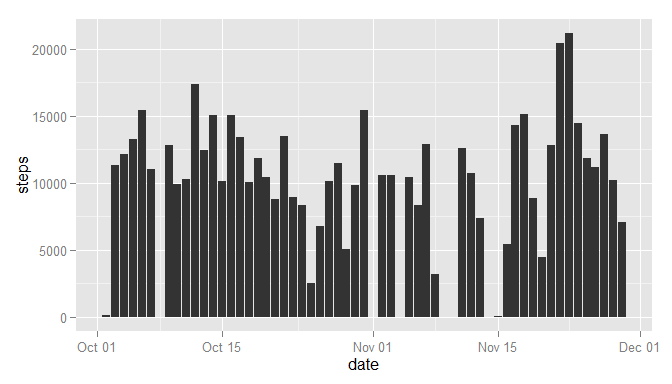
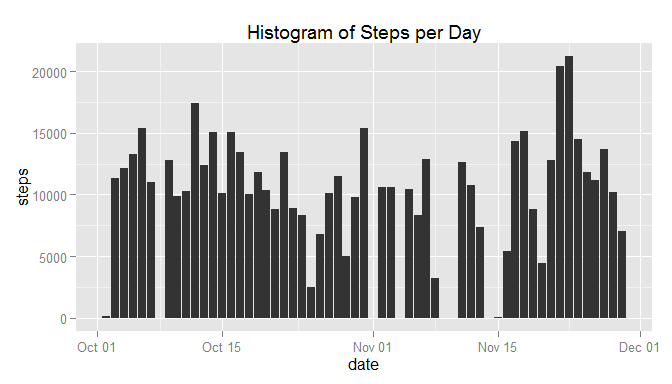
part2
complete

diff --git a/PA1_template.html b/PA1_template.html
@@ -69,9 +69,9 @@ data &lt;- transform(data, date = as.POSIXct(date))</code></pre>
 sumpd &lt;- data.frame(date=names(sumpd),steps = sumpd,row.names=NULL)
 sumpd  &lt;- transform(sumpd , date = as.POSIXct(date))
 par(mar = c(5, 4, 1, 1),las =1)
-qplot(date,steps,data = sumpd,geom = &quot;histogram&quot;,stat=&quot;identity&quot;)</code></pre>
+qplot(date,steps,data = sumpd,geom = &quot;histogram&quot;,stat=&quot;identity&quot;,main = &quot;Histogram of Steps per Day&quot;)</code></pre>
 <pre><code>## Warning: Removed 8 rows containing missing values (position_stack).</code></pre>
[2 lines of base64/hex data omitted]
 <pre class="r"><code>mean(sumpd$steps,na.rm= TRUE)</code></pre>
 <pre><code>## [1] 10766.19</code></pre>
 <pre class="r"><code>median(sumpd$steps, na.rm = TRUE)</code></pre>
@@ -79,6 +79,17 @@ qplot(date,steps,data = sumpd,geom = &quot;histogram&quot;,stat=&quot;identity&q
 </div>
 <div id="what-is-the-average-daily-activity-pattern" class="section level2">
 <h2>What is the average daily activity pattern?</h2>
+<pre class="r"><code>avgin&lt;-tapply(data$steps, data$interval, mean,na.rm = TRUE)
+avgin &lt;- data.frame(interval=names(avgin),steps = avgin,row.names=NULL)
+par(mar = c(5, 4, 1, 1),las =1)
+qplot(interval,steps,data=data,geom = &quot;line&quot;,stat=&quot;summary&quot;,fun.y = &quot;mean&quot;,main =&quot; time series of average number of steps taken, averaged across all days&quot;)</code></pre>
+<pre><code>## Warning: Removed 2304 rows containing missing values (stat_summary).</code></pre>
[1 lines of base64/hex data omitted]
+<p>This is the max average number of steps in 5-minute interval.</p>
+<pre class="r"><code>max(avgin$steps)</code></pre>
+<pre><code>## [1] 206.1698</code></pre>
+<pre class="r"><code>mas &lt;- names(which.max(avgin$steps))</code></pre>
+<p>835 in 5-minute interval contains the maximum number of steps on average across all the days in the dataset.</p>
 </div>
 <div id="imputing-missing-values" class="section level2">
 <h2>Imputing missing values</h2>

diff --git a/PA1_template.md b/PA1_template.md
@@ -23,7 +23,7 @@ sumpd<-tapply(data$steps, data$date, sum)
 sumpd <- data.frame(date=names(sumpd),steps = sumpd,row.names=NULL)
 sumpd  <- transform(sumpd , date = as.POSIXct(date))
 par(mar = c(5, 4, 1, 1),las =1)
-qplot(date,steps,data = sumpd,geom = "histogram",stat="identity")
+qplot(date,steps,data = sumpd,geom = "histogram",stat="identity",main = "Histogram of Steps per Day")
 ```
 
 ```
@@ -51,7 +51,35 @@ median(sumpd$steps, na.rm = TRUE)
 
 ## What is the average daily activity pattern?
 
+```r
+avgin<-tapply(data$steps, data$interval, mean,na.rm = TRUE)
+avgin <- data.frame(interval=names(avgin),steps = avgin,row.names=NULL)
+par(mar = c(5, 4, 1, 1),las =1)
+qplot(interval,steps,data=data,geom = "line",stat="summary",fun.y = "mean",main =" time series of average number of steps taken, averaged across all days")
+```
 
+```
+## Warning: Removed 2304 rows containing missing values (stat_summary).
+```
+
+![](PA1_template_files/figure-html/timeseries-1.png) 
+
+This is the max average number of steps in 5-minute interval.
+
+```r
+max(avgin$steps)
+```
+
+```
+## [1] 206.1698
+```
+
+
+
+```r
+mas <- names(which.max(avgin$steps))
+```
+835 in 5-minute interval contains the maximum number of steps on average across all the days in the dataset.
 
 ## Imputing missing values
 
